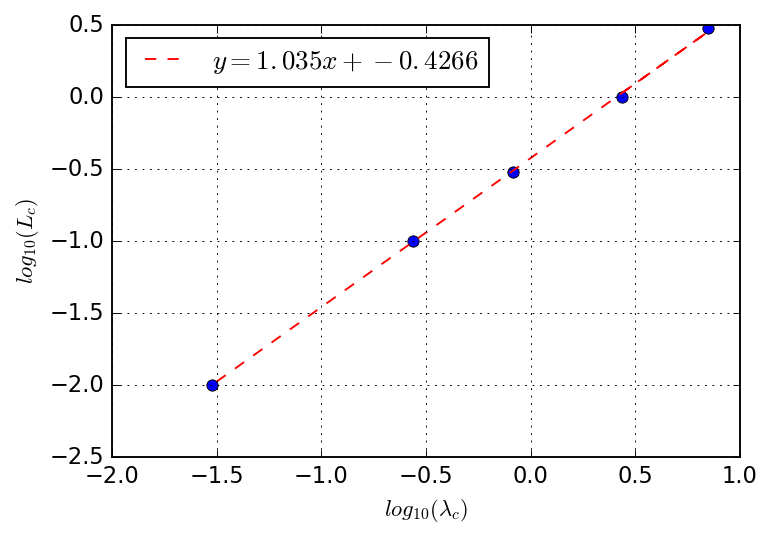
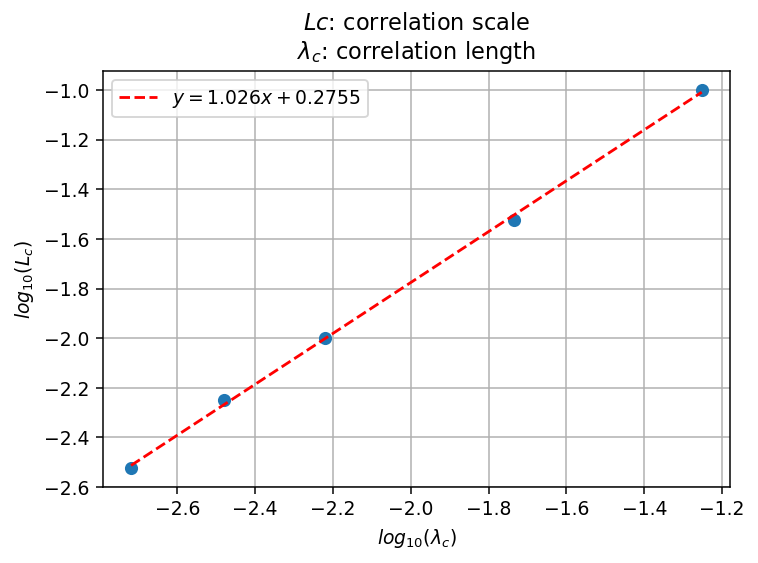
bash script to reproduce the figure ./linfit.png (relation between correlation length and correlation scale) && changed values of lmin/lmax (see test.py) of turbulent dB to fix absolute limits respect to Lc.

Changed region(s): [[0.0, 0.0298, 1.0, 0.9832]]

diff --git a/scripts/measure_Lc/linear_fit.py b/scripts/measure_Lc/linear_fit.py
@@ -1,14 +1,27 @@
 #!/usr/bin/env ipython
 # -*- coding: utf-8 -*-
 import numpy as np
-import h5py, os
+import h5py, os, argparse, glob
 from pylab import figure, show, close
 
+#--- retrieve args
+parser = argparse.ArgumentParser(
+formatter_class=argparse.ArgumentDefaultsHelpFormatter
+)
+parser.add_argument(
+'-fpattern', '--fpattern',
+type=str,
+default='./test.h5',
+help='HDF5 input for R-function profiles',
+)
+pa = parser.parse_args()
+
 da = {}
-Lc = [0.01, 0.1, 0.3, 1.0, 3.0]
-for _Lc in Lc:
-    fnm = './Rbidim_Lc.%2.2f.h5' % _Lc
-    print fnm, os.path.isfile(fnm)
+flist = glob.glob(pa.fpattern)
+assert len(flist)>0, '\n [-] no input files found!\n'
+for fnm in flist:
+    _Lc = float(fnm.split('_')[-1].replace('.h5','').replace('Lc.',''))
+    os.system('ls -lh %s'%fnm); assert os.path.isfile(fnm)
     fi = h5py.File(fnm, 'r')
     psim = {}
     #for nm, var in fi['psim'].iteritems():
@@ -24,8 +37,14 @@ ax  = fig.add_subplot(111)
 
 x = np.log10([da[nm] for nm in da.keys()]) # correlation lengths (fitted)
 y = np.log10(da.keys()) # correlation scales
+# sort according to 'x'
+cc = x.argsort()        # indexes that sort this array
+x, y = x[cc], y[cc]
+
+# plot data
 ax.plot(x, y, 'o')
 
+# plot fit
 m, b = np.polyfit(x, y,deg=1,cov=False)
 ax.plot(x, m*x+b, '--', c='red', label='$y = %2.4g x + %2.4g$'%(m,b))
 #ax.plot(x, 10.**(m*np.log10(x)+b), '--', c='red', label='fit')
@@ -34,6 +53,7 @@ ax.legend(loc='best')
 ax.grid(True)
 ax.set_xlabel('$log_{10}(\lambda_c)$')      # correlation length (fitted)
 ax.set_ylabel('$log_{10}(L_c)$')            # correlation scale
+ax.set_title('$Lc$: correlation scale\n$\lambda_c$: correlation length')
 
 fnmfig = './linfit.png'
 fig.savefig(fnmfig, dpi=135, bbox_inches='tight')

diff --git a/scripts/measure_Lc/plot_R.py b/scripts/measure_Lc/plot_R.py
@@ -60,8 +60,6 @@ fig, ax = fhist.contour_2d(fig, ax, r_perp, r_para, Ravr.T, hscale='linear',
 ax.set_title("$Nrlz = %d$" % fi['psim/Nrlz'].value)
 ax.set_xlabel('$r_\perp / L_c$')
 ax.set_ylabel('$r_\parallel / L_c$')
-#fig.savefig(pa.figname, dpi=135, bbox_inches='tight')
-#close(fig)
 
 #--- figure R vs r
 fig = figure(1, figsize=(6,4))
@@ -72,6 +70,7 @@ Ravr_r = (R.mean(axis=2)).mean(axis=0)
 Rstd_r = (R.mean(axis=2)).std(axis=0)
 err = Rstd_r/np.sqrt(Nrlz) # error
 
+# plot isotropized R(r) and error bands
 print(' [*] plotting R vs r (with error bands) ...\n')
 ax.plot(dr, Ravr_r, '-ok', ms=3, label='avrg over $\\theta$')
 inf, sup = Ravr_r-err, Ravr_r+err
@@ -79,7 +78,7 @@ ax.fill_between(dr, inf, sup, facecolor='gray', alpha=0.5)
 
 #--- fit 
 print(' [*] performing exponential fit...\n')
-cc = (dr<0.75) & (Ravr_r > 0.0) # select interval for the fit
+cc = (dr<0.7*Lc) & (Ravr_r > 0.0) # select interval for the fit
 x = dr[cc]
 y = np.log(Ravr_r[cc])
 err = Rstd_r/np.sqrt(Nrlz) # error
@@ -90,6 +89,7 @@ ax.plot(x, np.exp(m*x+b), '-r', lw=3, label='$\lambda_c=%1.3g$'%lcorr, alpha=.6)
 ax.set_xlabel('$r/L_c$')
 ax.set_ylabel('$\langle R \\rangle_\\theta$')
 ax.set_yscale('log')
+ax.set_ylim(5e-3, 1.2)
 ax.legend(loc='best')
 ax.grid(True)
 TITLE = '$L_c = %g$;   $\\xi=L_c^{2d}/L_c^{slab} = $%g' % (Lc,xi)

diff --git a/scripts/measure_Lc/test.py b/scripts/measure_Lc/test.py
@@ -48,7 +48,7 @@ help='th "origin" position xo will go until max(xo)=nLc*Lc.',
 )
 parser.add_argument(
 '-ndrLc', '--ndrLc',
-type=int,
+type=float,
 default=2.5,
 help='the displacements dr of R(ro,ro+dr) will go until max(dr)=ndrLc*Lc_slab. For more resolution, see option --ndr.',
 )
@@ -59,7 +59,7 @@ default=1.0,
 help='correlation lenght (the same for slab & 2D models)',
 )
 parser.add_argument(
-'-sig', '--sigma',
+'-sigma', '--sigma',
 type=float,
 default=0.3,
 help='turbulence energy; i.e. (dB/Bo)^2.',
@@ -85,10 +85,10 @@ xyz = np.zeros(3, dtype=np.float32)
 pd = {
 'Nm_slab'       : 128,
 'Nm_2d'         : 128,
-'lmin_s'        : 5e-3*pa.Lc, #[lmin_s/Rl] 
-'lmax_s'        : 1e+2*pa.Lc,  #[lmax_s/Rl] 
-'lmin_2d'       : 5e-3*pa.Lc, #[lmin_2d/Rl] 
-'lmax_2d'       : 1e+2*pa.Lc,  #[lmax_2d/Rl] 
+'lmin_s'        : 5e-5, #[lmin_s/Rl] 
+'lmax_s'        : 1.0,  #[lmax_s/Rl] 
+'lmin_2d'       : 5e-5, #[lmin_2d/Rl] 
+'lmax_2d'       : 1.0,  #[lmax_2d/Rl] 
 'Lc_slab'       : pa.Lc,  # in units of Larmor-radii
 'xi'            : 1.0, # [1] xi=Lc_2d/Lc_slab 
 'sigma_Bo_ratio': pa.sigma, # [1] fluctuation energy

diff --git a/shared/fhist2d.py b/shared/fhist2d.py
@@ -37,13 +37,19 @@ def LinearFit_Hist2D(x, y, H2D):
 def contour_2d(fig, ax, x, y, mat, hscale='log', **kargs):
     cb_label = kargs.get('cb_label', 'points per bin square')
     cb_fontsize = kargs.get('cb_fontsize', 15)
+
+    # max/min values of the colorbar
     cbmin, cbmax = kargs.get('vmin',1), kargs.get('vmax',1e3)
+    if cbmin is None: cbmin = np.nanmin(mat)
+    if cbmax is None: cbmax = np.nanmax(mat)
+
     opt = {
     'linewidth': 0,
     'cmap': cm.gray_r,                # gray-scale
     'vmin': cbmin, #kargs.get('cbmin',1),
     'vmax': cbmax, #kargs.get('cbmax',1000),
     'alpha': kargs.get('alpha',0.9),
+    'levels': np.arange(cbmin, cbmax, (cbmax-cbmin)/kargs.get('nlevels',10))
     }
     if hscale=='log':
         opt.update({'norm': LogNorm(),})

diff --git a/scripts/measure_Lc/funcs.py b/scripts/measure_Lc/funcs.py
@@ -48,6 +48,7 @@ class LcMeasure(object):
         nB  : nro of turbulence-realization
         direcc: in which direction we build the correlation-function profile
         """
+        # fix dB realization with its id number 'nB'
         self.m._build_par(nB=nB)
 
         Lc = self.m.read_param('Lc_slab')

diff --git a/scripts/measure_Lc/README.md b/scripts/measure_Lc/README.md
@@ -1,8 +1,28 @@
-# calc the relation between the `Lc` (correlation scale of the model) and `lambda_c` (correlation length by definition):
+# calc the relation between the `Lc` (correlation scale of the model) and `lambda_c` (fitted correlation length using its definition):
 we calculate `lambda_c` by fitting an isotropic (averaged on `theta`, where `theta` is the angle of the displacement `$r$` from the z-axis) correlation function `$R(r)$` as a function of the displacements `$r$`.
 
 Finally, we make a plot between the `Lc` parameters of these correlation functions, and the `lambda_c` fitted values (see file `./linfit.png`):
 ![-->](./linfit.png)
+
+
+--- 
+## run all with a script!
+See below for examples on how to run the individual Python scripts.
+Run:
+```bash
+# to generate/build the correlation functions R(r,th):
+./make_Rcorr_analysis.sh -odir <outpur-dir> -run
+
+# to fit the correlation length (lambda_c) && plot using the above runs:
+./make_Rcorr_analysis.sh -odir <outpur-dir> -fit
+
+# to generate the R(r,th) functions && fit lambda_c && plot:
+./make_Rcorr_analysis.sh -odir <outpur-dir> -run -fit
+
+# to fit the relation between the correlation length (lambda_c) and
+# correlations scale (lc):
+./linear_fit.py --pdb -- -fpattern '<output-dir>/Rbidim_Lc.*.h5'
+```
 
 
 ---
@@ -51,4 +71,4 @@ Generate the correlation functions:
 
 
 
-<!--- EOF -->º
+<!--- EOF -->
